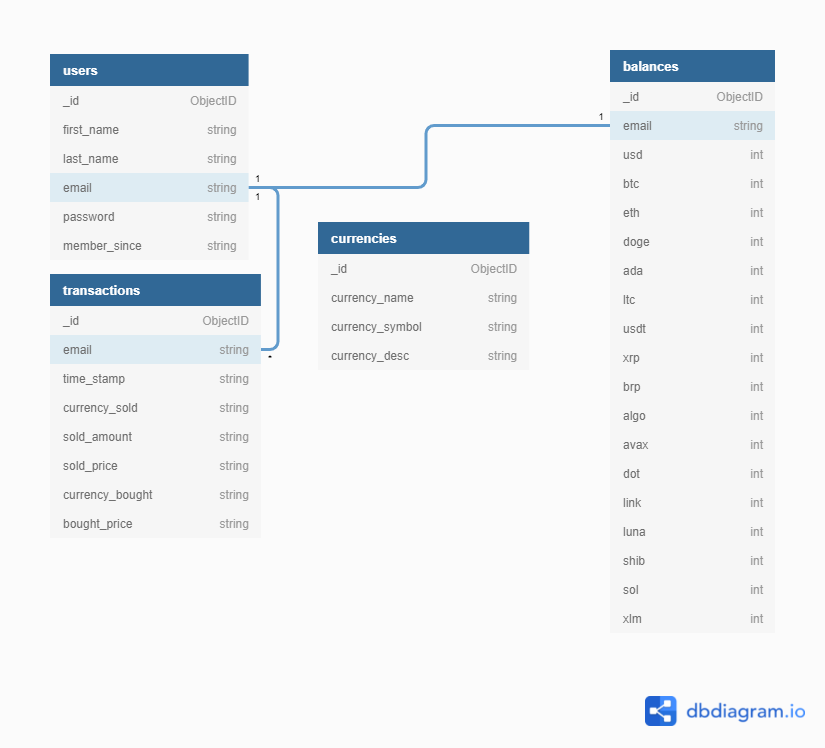
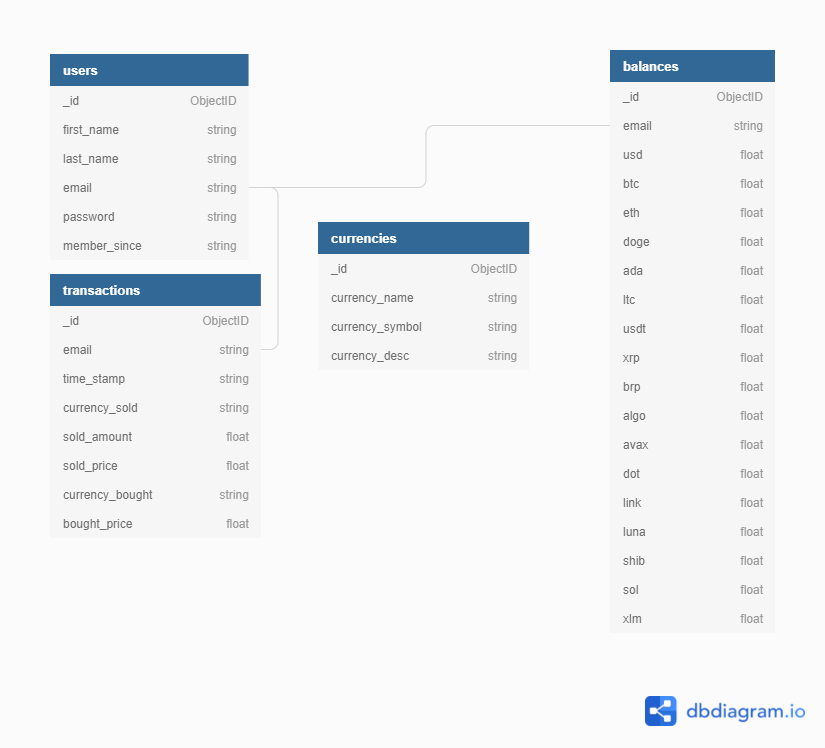
code tidy, adjust styling and edit readme.md

diff --git a/templates/trade.html b/templates/trade.html
@@ -11,31 +11,27 @@
                     </div><hr>
                     <h6 class="crypto-prices">
                         I want to buy:
-                        <!-- <div class="input-field col m4 s12"> -->
+                        <!-- populate select list with all cryptocurrencies in db -->
                         <div class="input-field inline">    
                             <select id="currency_bought" name="currency_bought" required>
-                                <!-- <option value="" disabled selected>{{ selected_ticker }}</option> -->
                                 {% for currency in currencies %}
+                                    <!-- if coming via trade button on portfolio screen, the pre-select cryptocurrency passed through -->
                                     <option value="{{currency.currency_symbol}}" {% if currency.currency_symbol == selected_ticker %} selected {% endif %}>{{ currency.currency_symbol }}</option>
-                                    <!-- <option>{{ currency.currency_symbol }}</option> -->
                                 {% endfor %}
                             </select>
                         </div>
                         <br>
                         Amount (USD):
-                        <!-- <div class="input-field col m4 s12 black-text"> -->
                         <div class="input-field inline">
                             <input id="sold_amount" name="sold_amount" type="text" pattern="^[0-9]{0,15}$" class="validate" required>
-                            <!-- <label class="black-text" for="sold_amount">Amount (USD)</label> -->
                         </div>
                         <br>
                         Purchase using:
-                        <!-- <div class="input-field col m4 s12 upper"> -->
+                        <!-- populate select list by finding currencies user holds with positive balance -->
                         <div class="input-field inline">
                             <select id="currency_sold" name="currency_sold" required>
-                                <!-- <option value="" disabled selected>SELL</option> -->
                                 {% for balance in balances %}
-                                    {% if balances[balance] != 0 %}
+                                    {% if balances[balance]|float > 0 %}
                                         {% if balance != '_id' and balance != 'email' %}
                                             <option>{{ balance.upper() }}</option>
                                         {% endif %}   
@@ -45,7 +41,7 @@
                         </div>
                         <!--complete trade button-->
                         <div class="row">
-                            <button type="submit" class="col s12 btn-large teal lighten-1">
+                            <button type="submit" class="col s12 btn-large blue darken-2">
                                 Submit Trade  <i class="fas fa-check"></i>
                             </button>
                         </div>

diff --git a/templates/currencies.html b/templates/currencies.html
@@ -26,22 +26,9 @@
                                         {% if '-' not in "{:.2f}".format(coin['quote']['USD']['percent_change_24h']) %} <span id="positive-change">+{{ "{:.2f}".format(coin['quote']['USD']['percent_change_24h']) }}%</span> {% endif %}
                                         {% if '-' in "{:.2f}".format(coin['quote']['USD']['percent_change_24h']) %} <span id="negative-change">{{ "{:.2f}".format(coin['quote']['USD']['percent_change_24h']) }}%</span> {% endif %}
                                         &nbsplast 24hrs
-                                        <!-- <a href="{{ url_for('trade', ticker = currency.currency_symbol) }}" class="waves-effect waves-light btn-small pink lighten-2" id="right-align {{ coin['symbol'] }}">Trade</a><br> -->
                                     </div>
                                     <div class="collapsible-body"><span>{{ currency.currency_desc }}</span></div>
                                 </li>    
-                                <!-- <div class="crypto-prices"> -->
-                                    <!-- {{ coin['name'] }} ({{ coin['symbol'] }})     -->
-                                    <!-- <img class="crypto-icon" src="{{ currency.image_source_large }}" alt="Profile image for {{ currency.currency_name }}"> -->
-                                    <!--credit to kite.com for formatting tips - how to print float with 2 decimal places-->
-                                    <!-- {{ "{:.2f}".format(coin['quote']['USD']['price']) }}, -->
-                                    <!-- green for positive changes and red for negative changes  -->
-                                    <!-- {% if '-' not in "{:.2f}".format(coin['quote']['USD']['percent_change_24h']) %} <span id="positive-change">+{{ "{:.2f}".format(coin['quote']['USD']['percent_change_24h']) }}%</span> {% endif %} -->
-                                    <!-- {% if '-' in "{:.2f}".format(coin['quote']['USD']['percent_change_24h']) %} <span id="negative-change">{{ "{:.2f}".format(coin['quote']['USD']['percent_change_24h']) }}%</span> {% endif %} -->
-                                    <!-- last 24hrs -->
-                                    <!-- <a href="{{ url_for('trade', ticker = currency.currency_symbol) }}" class="waves-effect waves-light btn-small pink lighten-2" id="right-align {{ coin['symbol'] }}">Trade</a><br> -->
-                                    <!-- <hr> -->
-                                <!-- </div> -->
                             {% endif %}
                         {% endfor %}
                     {% endfor %}

diff --git a/templates/edit_settings.html b/templates/edit_settings.html
@@ -13,20 +13,17 @@
                         <div class="input-field inline">
                             <input id="first_name" name="first_name" type="text" pattern="^[A-Za-z]{1,30}$"
                             class="validate" value="{{ user_settings.first_name }}" required>
-                            <!-- <label for="first_name">{{ user_settings.first_name }}</label> -->
                         </div>
                         <br>
                         Last name: 
                         <div class="input-field inline">
                             <input id="last_name" name="last_name" type="text" pattern="^[A-Za-z]{1,30}$"
                             class="validate" value="{{ user_settings.last_name }}" required>
-                            <!-- <label for="last_name">{{ user_settings.last_name }}</label> -->
                         </div>
                         <br>
                         <!-- Reset Porftfolio -->
-                        Reset Portfolio Balance?<br>
-                        <br><div class="update-warning">WARNING: Selecting 'Yes' will delete all trading history and reset account to 100000 credits</div><br>
-                        <div class="switch">
+                        <br>Reset Portfolio Balance?<br>
+                        <br><div class="switch">
                             <label for="reset_account">
                                 NO
                             <input id="reset_account" name="reset_account" type="checkbox">
@@ -34,9 +31,10 @@
                                 YES
                             </label>
                         </div><br>
+                        <div class="update-warning">WARNING: Selecting 'Yes' will delete all trading history and reset account to 100,000 USD</div><br>
                         <div id="edit-settings-buttons">
-                            <a href="{{ url_for('settings') }}" class="waves-effect waves-light btn-small pink lighten-2 left">Cancel  <i class="fas fa-times"></i></a>
-                            <button type="submit" class="waves-effect waves-light btn-small pink lighten-2">
+                            <a href="{{ url_for('settings') }}" class="waves-effect waves-light btn-small blue darken-2 left">Cancel  <i class="fas fa-times"></i></a>
+                            <button type="submit" class="waves-effect waves-light btn-small blue darken-2">
                                 Save  <i class="fas fa-check"></i>
                             </button>
                         </div>

diff --git a/templates/portfolio.html b/templates/portfolio.html
@@ -34,7 +34,7 @@
                                             {{ currency.currency_symbol }})
                                         {% endif %}
                                     {% endfor %}
-                                    <a href="{{ url_for('trade', ticker = currency.currency_symbol) }}" class="waves-effect waves-light btn-small teal lighten-1" id="right-align" {{ currency.currency_symbol }}">Trade</a><br>
+                                    <a href="{{ url_for('trade', ticker = currency.currency_symbol) }}" class="waves-effect waves-light btn-small blue darken-2" id="right-align" {{ currency.currency_symbol }}">Trade</a><br>
                                     <hr>
                                 </div>
                                 <!-- display for mobile screen sizes -->
@@ -42,7 +42,7 @@
                                     <img class="crypto-icon" src="../static/images/crypto-icons/{{ currency.currency_symbol.lower() }}.png" alt="Profile image for {{ currency.currency_name }}">&nbsp
                                     {{ currency.currency_symbol }}
                                     {{ value }} 
-                                    <a href="{{ url_for('trade', ticker = currency.currency_symbol) }}" class="waves-effect waves-light btn-small teal lighten-1" id="right-align" {{ currency.currency_symbol }}">Trade</a><br>
+                                    <a href="{{ url_for('trade', ticker = currency.currency_symbol) }}" class="waves-effect waves-light btn-small blue darken-2" id="right-align" {{ currency.currency_symbol }}">Trade</a><br>
                                     <hr>
                                 </div>
                             {% endif %}

diff --git a/templates/register.html b/templates/register.html
@@ -4,9 +4,6 @@
     <div class="row">
         <form class="col s12 m6 offset-m3" method="POST" action="{{ url_for('register') }}">
             <div class="card white">
-                <!-- <div class="card-image">
-                    <img src="../static/images/register.jpg">
-                </div> -->
                 <div class="card-content">
                     <div class="clearfix header">
                         Register<img src="../static/images/crypto_coins_bw_min.png">
@@ -42,7 +39,7 @@
                     </div>
                     <!--register button-->
                     <div class="row">
-                        <button type="submit" class="col s12 btn-large pink lighten-2">
+                        <button type="submit" class="col s12 btn-large blue darken-2">
                             Register <i class="fas fa-sign-in-alt"></i>
                         </button>
                     </div>

diff --git a/templates/login.html b/templates/login.html
@@ -4,9 +4,6 @@
     <div class="row">
         <form class="col s12 m6 offset-m3" method="POST" action="{{ url_for('login') }}">
             <div class="card white">
-                <!-- <div class="card-image">
-                    <img src="../static/images/register.jpg">
-                </div> -->
                 <div class="card-content">
                     <div class="clearfix header">
                         Sign-in<img src="../static/images/crypto_coins_bw_min.png">
@@ -29,7 +26,7 @@
                     </div>
                     <!--login button-->
                     <div class="row">
-                        <button type="submit" class="col s12 btn-large pink lighten-1">
+                        <button type="submit" class="col s12 btn-large blue darken-2">
                             Sign In <i class="fas fa-sign-in-alt"></i>
                         </button>
                     </div>

diff --git a/templates/settings.html b/templates/settings.html
@@ -11,8 +11,8 @@
                     <h6 class="crypto-prices">
                         <p class="increase-line-height">First name: {{ user_settings.first_name }}</p><br>
                         <p class="increase-line-height">Last name: {{ user_settings.last_name }}</p><br>
-                        <p class="increase-line-height">Balance: {{ "{:.2f}".format(portfolioBalance) }}</p>
-                        <a href="{{ url_for('edit_settings') }}" class="waves-effect waves-light btn-small pink lighten-2">Edit</a><br>
+                        <p class="increase-line-height">Balance: {{ "{:.2f}".format(portfolioBalance) }}</p><br>
+                        <a href="{{ url_for('edit_settings') }}" class="waves-effect waves-light btn-small blue darken-2">Edit</a><br>
                     </h6>
                 </div>
             </div>

diff --git a/templates/index.html b/templates/index.html
@@ -43,7 +43,7 @@
                 </div>
                 <div class="card-reveal">
                     <span class="card-title grey-text text-darken-4"><i class="fas fa-times right"></i></span>
-                    <p class="grey-text text-darken-4 flow-text">When you sign up, Hashmoney allocates 100,000 credits to your account
+                    <p class="grey-text text-darken-4 flow-text">When you sign up, Hashmoney allocates 100,000 USD to your account
                         which you can use to trade any of our supported cryptocurrencies. You can then keep track of your
                         portfolio and see how it develops over time.
                     </p>

diff --git a/static/css/style.css b/static/css/style.css
@@ -84,7 +84,7 @@ h6 {
 .header {
     padding: 1%;
     width: 100%;
-    font-size: 2em;
+    font-size: 1.5em;
 }
 
 .header > img {
@@ -142,6 +142,7 @@ button {
     height: 20px;
     line-height: 20px;
     font-size: 12px;
+    font-weight: bolder;
 }
 
 #edit-settings-buttons {
@@ -178,5 +179,9 @@ button {
         height: 28px;
         line-height: 28px;
         font-size: 13px;
+    }
+
+    .header {
+        font-size: 2em;
     }
 }

diff --git a/app.py b/app.py
@@ -51,6 +51,9 @@ def get_latest_prices():
 
 
 # this procedure returns a user's total portfolio balance
+# by taking their balance for each cryptocurrency then
+# multiplying it by its current price (taken from the api
+# call) and finally adding them together
 def get_total_balance(balances, coins):
     total_balance = 0
     dict = {}
@@ -67,8 +70,6 @@ def get_total_balance(balances, coins):
                     x = "{:.2f}".format(x)
                     dict[balance.upper()] = x
                     total_balance = total_balance + float(x)
-
-        # total_balance = int(float(total_balance))
 
     return total_balance
 
@@ -170,6 +171,7 @@ def login():
 
 @app.route("/settings/")
 def settings():
+    # this redirects user to login screen if not logged in
     if "user" not in session:
         return redirect(url_for("login"))
 
@@ -196,6 +198,7 @@ def settings():
 
 @app.route("/edit_settings/", methods=["GET", "POST"])
 def edit_settings():
+    # this redirects user to login screen if not logged in
     if "user" not in session:
         return redirect(url_for("login"))
 
@@ -256,6 +259,7 @@ def edit_settings():
 
 @app.route("/portfolio/")
 def portfolio():
+    # this redirects user to login screen if not logged in
     if "user" not in session:
         return redirect(url_for("login"))
 
@@ -311,12 +315,14 @@ def portfolio():
 
 @app.route("/transactions/")
 def transactions():
+    # this redirects user to login screen if not logged in
     if "user" not in session:
         return redirect(url_for("login"))
 
     # get users first name from db
     username = mongo.db.users.find_one(
         {"email": session["user"]})["first_name"]
+
     if session["user"]:
         # retrieve user's transaction history
         transactions = mongo.db.transactions.find(
@@ -330,6 +336,10 @@ def transactions():
 
 @app.route("/trade/<ticker>", methods=["GET", "POST"])
 def trade(ticker):
+    # this redirects user to login screen if not logged in
+    if "user" not in session:
+        return redirect(url_for("login"))
+
     if session["user"]:
         # retrieve user's balance for each cryptocurrency
         balances = mongo.db.balances.find_one(
@@ -391,10 +401,10 @@ def trade(ticker):
             "email": session["user"],
             "time_stamp": time_stamp,
             "currency_sold": request.form.get("currency_sold"),
-            "sold_amount": request.form.get("sold_amount"),
+            "sold_amount": float(request.form.get("sold_amount")),
             "sold_price": sold_price,
             "currency_bought": request.form.get("currency_bought"),
-            "bought_price": bought_price,
+            "bought_price": float(bought_price),
         }
         mongo.db.transactions.insert_one(transaction)
 

diff --git a/README.md b/README.md
@@ -81,7 +81,7 @@ To make sure the app is intuitive to navigate and use, I decided to keep all of 
 
 The 'Monserrat' Google font was chosen to give a clean and modern feel, while the grey and white colour scheme added to this style.
 
-The colour scheme was chosen as it feels sharp and modern to match the world of cryptocurrencies. At the same time, it is both visually unintimidating and easy on the eye. I wanted the app to have this look so that it appeals to users who are risk-averse and who don't want to be overloaded with unecessary information.
+The colour scheme was chosen as it feels sharp and modern to match the world of cryptocurrencies. At the same time, it is both visually unintimidating and easy on the eye. I wanted the app to have this look so that it appeals to users who are risk-averse and who don't want to be overloaded with unecessary information. A shade of blue was chosen for the buttons as it is perceived as being a trustworthy,dependable, and responsible color. Blue is also popular among financial institutions, as conveys trust and stability. The button color is consistent throughout the app to maintain consistency and increase intuitivity.
 
 The cryptocoin hero image was chosen for the landing page to make it immediately apparent that this is a financial app dealing with cryptocurrency. The large two sentence message underneath the hero image was used to give a clear, unambiguous description of what the app is about.
 
@@ -141,9 +141,9 @@ The cryptocoin images used in the title bars of all other pages were used to mai
 
 ![ERD](https://johnroutledge.github.io/milestone-project-3/static/images/readme/hashmoney.png "ERD")
 
-## CRUD
 
 ***
+
 
 ## Testing
 
@@ -154,14 +154,15 @@ The cryptocoin images used in the title bars of all other pages were used to mai
 |  Navbar 'Porftfolio' 'Prices' 'Trade' links   | Be visible     |  See only these links if user logged in                   | PASS          |
 |  Navbar 'Transactions' 'Settings' 'Logout'    | Be visible     |  See only these links if user logged in                   | PASS          |
 |  Navbar links                                 | Click          |  Navigate to the corresponding pages                      | PASS          |
-|  Vertical elipses on 'Why Hashmoney' card     | Click          |  Reveal hidden text                                       | PASS          |
-|  Vertical elipses on 'How does it work' card  | Click          |  Reveal hidden text                                       | PASS          |
+|  Navbar links                                 | View on mobile |  Should be visible as hamburger icon                      | PASS          |
+|  Vertical ellipsis on 'Why Hashmoney' card     | Click          |  Reveal hidden text                                       | PASS          |
+|  Vertical ellipsis on 'How does it work' card  | Click          |  Reveal hidden text                                       | PASS          |
 |  Social Media links in footer                 | Click          |  Navigate to the correct social media homepages           | PASS          |
 |  Sign-in page input wrong data format         | Submit         |  Catch all incorrect data formats                         | PASS          |
 |  Sign-in page input wrong login details       | Submit         |  Display incorrect email/password flash message           | PASS          |
 |  Sign-in page successful login                | Submit         |  Display user welcome flash message                       | PASS          |
 |  Sign-in page successful login                | Submit         |  Navigate to user's portfolio page                        | PASS          |
-|  Sign-in page link to regsiter page           | Click          |  Navigate to register page                                | PASS          |
+|  Sign-in page link to register page           | Click          |  Navigate to register page                                | PASS          |
 |  Portfolio page member information            | Page load      |  Display name, join date, balance, loss/gain %            | PASS          |
 |  Portfolio page portfolio change %            | Page load      |  Render in green text if gain, red text if loss           | PASS          |
 |  Portfolio page cryptocurrency data           | Page load      |  Display logo, name, USD balance, coin quantity & code    | PASS          |
@@ -173,6 +174,7 @@ The cryptocoin images used in the title bars of all other pages were used to mai
 |  Trade page 'buy'currency select list         | Page Load      |  List all cryptocurrencies in database                    | PASS          |
 |  Trade page 'purchase using' select list      | Page Load      |  List only cryptocurrencies user has positive balance of  | PASS          |
 |  Trade page input wrong data format           | Click Submit   |  Catch all incorrect data formats                         | PASS          |
+|  Trade page input duplicate currencies        | Click Submit   |  Display traded currencies must be different flash message       | PASS          |
 |  Trade page successful trade                  | Click Submit   |  Display trade successfully processed flash message       | PASS          |
 |  Trade page successful trade                  | Click Submit   |  Navigate to portfolio page and display new balances      | PASS          |
 |  Transactions page user transactions          | Page load      |  List all user's transactions since registered/reset      | PASS          |
@@ -189,12 +191,11 @@ The cryptocoin images used in the title bars of all other pages were used to mai
 |  Edit Settings page 'cancel' button           | Click          |  Navigate back to settings page and display existing data | PASS          |
 |  Logout navbar link                           | Click          |  Display log out successful flash message                 | PASS          |
 |  Logout navbar link                           | Click          |  Navigate to sign-in page                                 | PASS          |
-|  Media Query mobile screen size               | Resize screen  |  Page should display correctly on mobile screen           | PASS          |
-|  Media Query tablet screen size               | Resize screen  |  Page should display correctly on tablet screen           | PASS          |
-|  Media Query desktop screen size              | Resize screen  |  Page should display correctly on 14 inch screen          | PASS          |
-|  Media Query 5k screen size                   | Resize screen  |  Page should display correctly on 5k screen               | PASS          |
-|  Copyright text                               | Resize screen  |  Should be visible on screens above mobile size           | PASS          |
-|  Copyright text                               | Resize screen  |  Should not be visible mobile screens                     | PASS          |
+|  Media Query mobile screen size               | Resize screen  |  Page should render correctly on mobile screen            | PASS          |
+|  Media Query tablet screen size               | Resize screen  |  Page should render correctly on tablet screen            | PASS          |
+|  Media Query desktop screen size              | Resize screen  |  Page should render correctly on 14 inch screen           | PASS          |
+|  Media Query 5k screen size                   | Resize screen  |  Page should render correctly on 5k screen                | PASS          |
+
 
 ## CRUD Testing
 
@@ -202,15 +203,15 @@ The cryptocoin images used in the title bars of all other pages were used to mai
 |-----------------------------------------------|----------------|-----------------------------------------------------------|---------------|
 |  New user register                            | Create         |  Create new record in users table in db                   | PASS          |
 |  New user register                            | Create         |  Create new record in balance table in db                 | PASS          |
-|  Porftolio page                               | Read           |  Correcly list all balances from db                       | PASS          |
-|  Prices page                                  | Read           |  Correcly list all prices from db and api call            | PASS          |
-|  Prices page reveal text                      | Read           |  Correcly list all info from currencies table in db       | PASS          |
+|  Porftolio page                               | Read           |  Correctly list all balances from db                      | PASS          |
+|  Prices page                                  | Read           |  Correctly list all prices from db and api call           | PASS          |
+|  Prices page reveal text                      | Read           |  Correctly list all info from currencies table in db      | PASS          |
 |  Trade page                                   | Read           |  List all cryptocurrencies from currencies table in db    | PASS          |
-|  Trade page successful trade                  | Update         |  Correcly update transactions and balances tables in db   | PASS          |
-|  Transactions page                            | Read           |  Correcly list all data from transactions table in db     | PASS          |
-|  Edit settings page successful edit           | Update         |  Correcly update user table in db                         | PASS          |
-|  Edit settings page successful reset balance  | Update         |  Correcly update balances table in db                     | PASS          |
-|  Edit settings page successful reset balance  | Delete         |  Correcly detete all date from transactions table in db   | PASS          |
+|  Trade page successful trade                  | Update         |  Correctly update transactions and balances tables in db  | PASS          |
+|  Transactions page                            | Read           |  Correctly list all data from transactions table in db    | PASS          |
+|  Edit settings page successful edit           | Update         |  Correctly update user table in db                        | PASS          |
+|  Edit settings page successful reset balance  | Update         |  Correctly update balances table in db                    | PASS          |
+|  Edit settings page successful reset balance  | Delete         |  Correctly delete all data from transactions table in db  | PASS          |
 
 **Testing User Stories**
 
